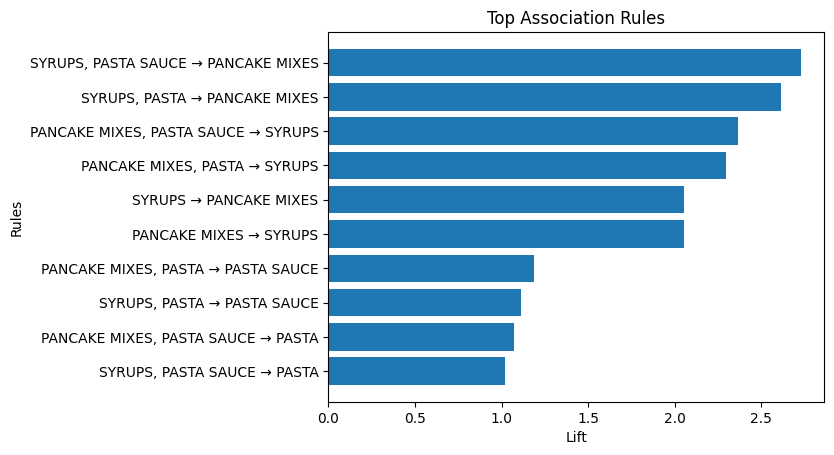
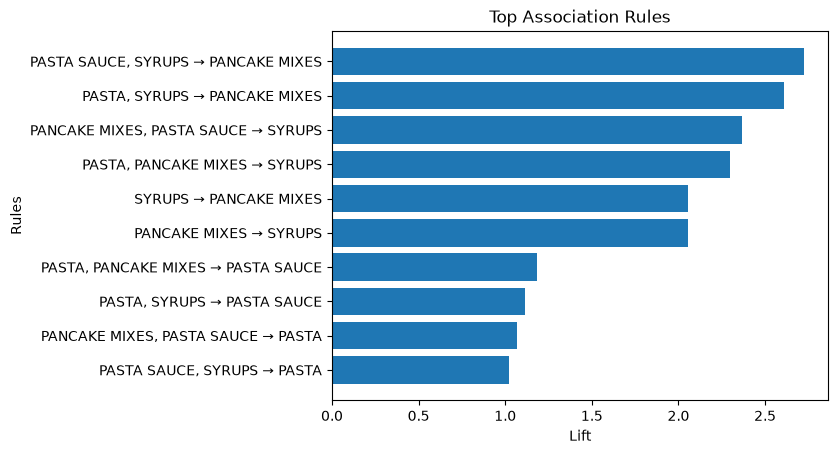
Deployment fix last

Changed region(s): [[0.0312, 0.0, 0.9976, 0.9868], [0.0, 0.4317, 0.0312, 0.5242]]

diff --git a/main.py b/main.py
@@ -7,7 +7,7 @@ from src.utils import save_rules, plot_top_rules
 
 def main():
 
-    df = pd.read_csv("raw.csv")
+    df = pd.read_csv("data/raw.csv")
 
     cleaner = UniversalSizeCleaner(column='product_size')
     df = cleaner.fit_transform(df)
